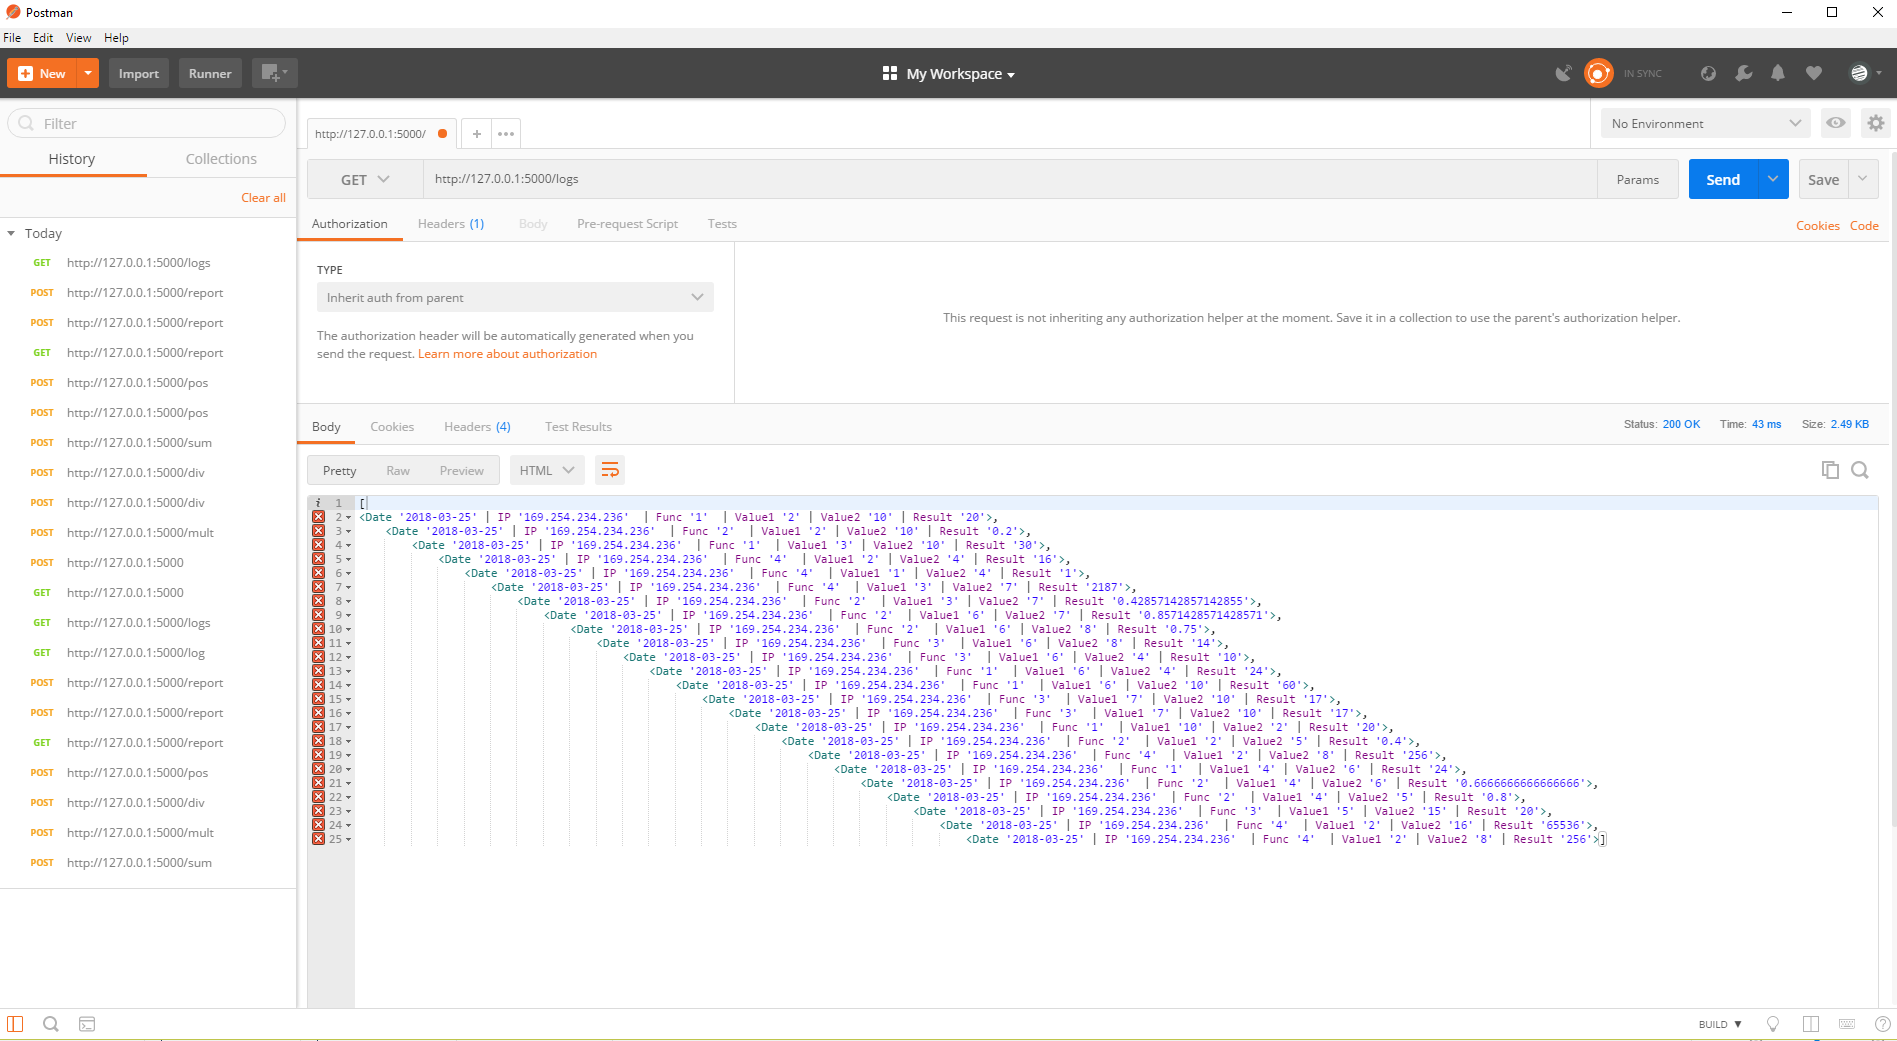
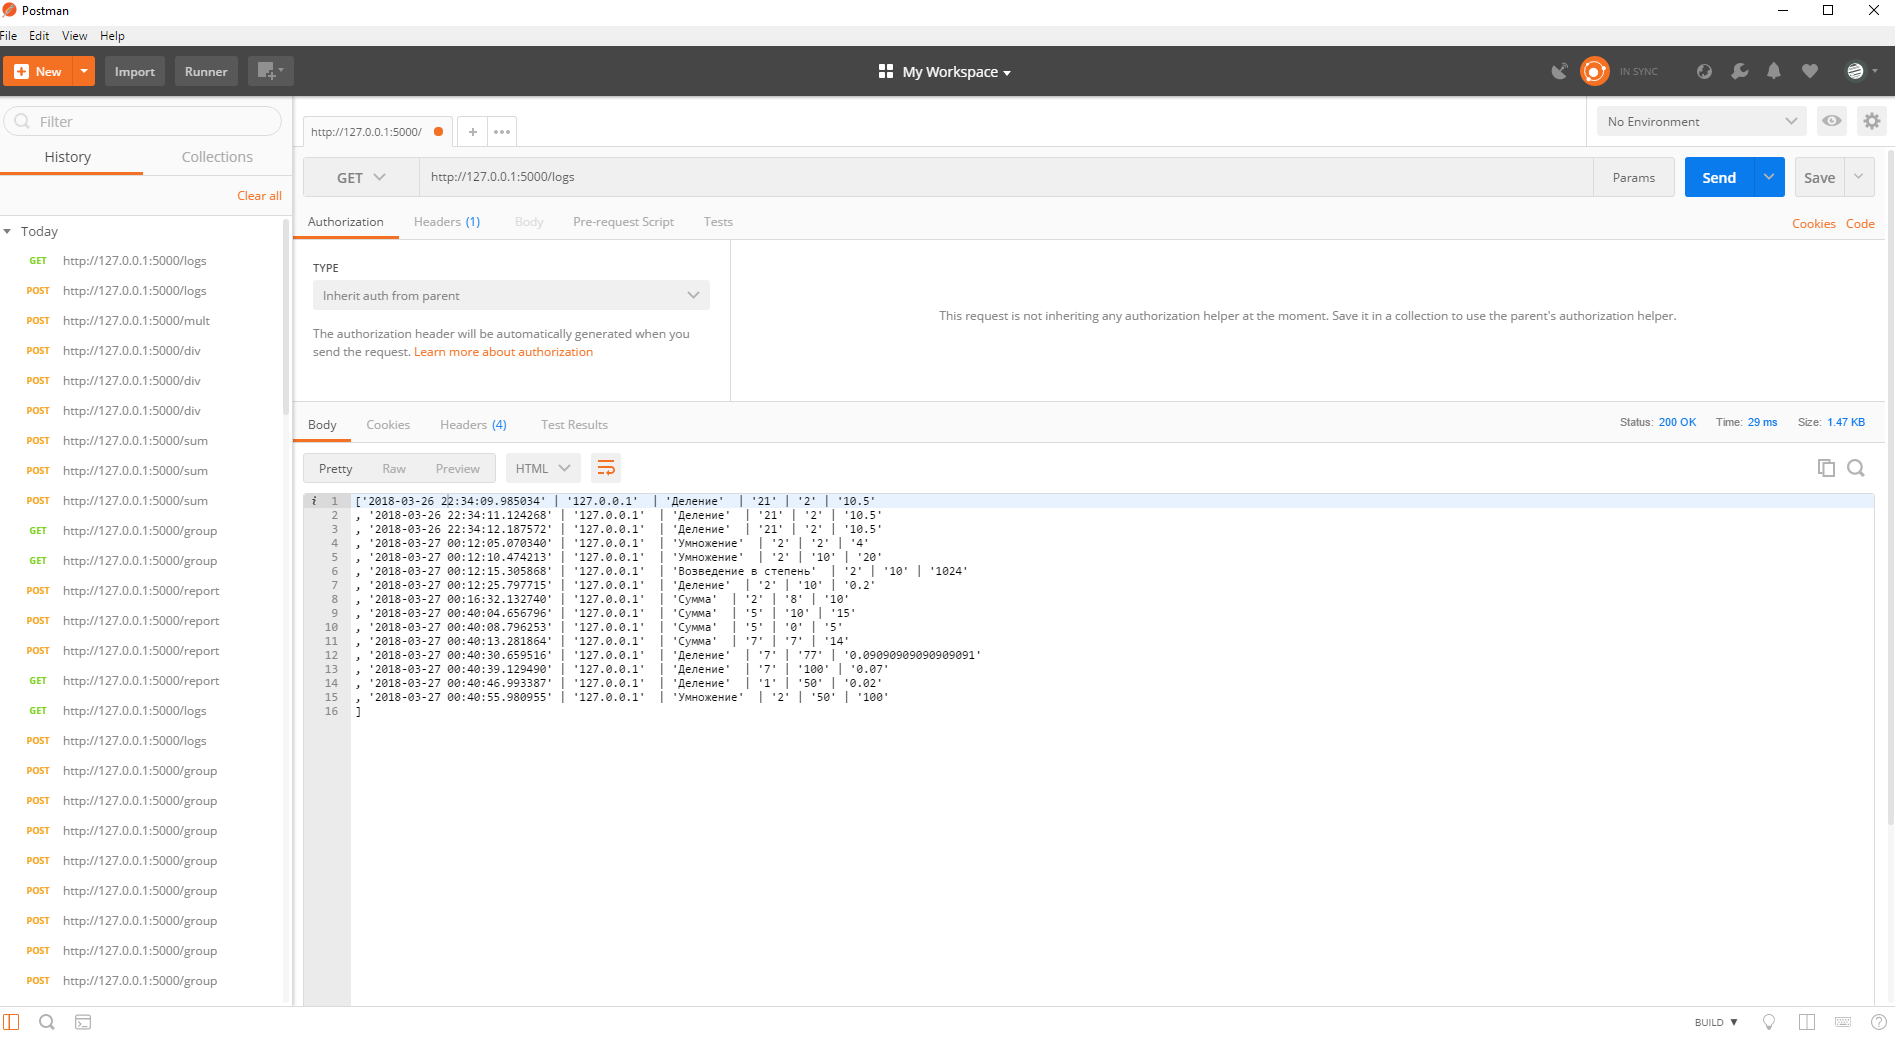
add

diff --git a/views.py b/views.py
@@ -1,3 +1,5 @@
+from sqlalchemy import func
+
 from app import app
 from flask import request, jsonify
 import socket
@@ -21,10 +23,10 @@ def mult():
 
     #work with database
     init_db()
-    d_today = datetime.now()
-    dd = d_today.date()
-    ss = socket.gethostbyname(socket.gethostname())
-    u = User(str(dd), str(ss), str(1), value1, value2, str(res))
+    dd = datetime.now()
+    # dd = d_today.date()
+    ss = request.remote_addr
+    u = User(str(dd), ss, 'Умножение', value1, value2, str(res))
     db_session.add(u)
     db_session.commit()
 
@@ -39,10 +41,10 @@ def div():
 
     #work with database
     init_db()
-    d_today = datetime.now()
-    dd = d_today.date()
-    ss = socket.gethostbyname(socket.gethostname())
-    u = User(str(dd), str(ss), str(2), value1, value2, str(res))
+    dd = datetime.now()
+    # dd = d_today.date()
+    ss = request.remote_addr
+    u = User(str(dd), ss, 'Деление', value1, value2, str(res))
     db_session.add(u)
     db_session.commit()
 
@@ -57,10 +59,10 @@ def sum():
 
     #work with database
     init_db()
-    d_today = datetime.now()
-    dd = d_today.date()
-    ss = socket.gethostbyname(socket.gethostname())
-    u = User(str(dd), str(ss), str(3), value1, value2, str(res))
+    dd = datetime.now()
+    # dd = d_today.date()
+    ss = request.remote_addr
+    u = User(str(dd), ss, 'Сумма', value1, value2, str(res))
     db_session.add(u)
     db_session.commit()
 
@@ -75,10 +77,10 @@ def pos():
 
     #work with database
     init_db()
-    d_today = datetime.now()
-    dd = d_today.date()
-    ss = socket.gethostbyname(socket.gethostname())
-    u = User(str(dd), str(ss), str(4), value1, value2, str(res))
+    dd = datetime.now()
+    # dd = d_today.date()
+    ss = request.remote_addr
+    u = User(str(dd), ss, 'Возведение в степень', value1, value2, str(res))
     db_session.add(u)
     db_session.commit()
 
@@ -88,21 +90,39 @@ def pos():
 def logs():
     return str(User.query.all())
 
+@app.route('/group', methods=['GET', 'POST'])
+def group():
+    if request.method == 'GET':
+        lst = db_session.query(User.funcn, func.count()).group_by(User.funcn).all()
+    else:
+        data_date = request.get_json()
+        dd = data_date['date']
+        lst = db_session.query(User.funcn, func.count()).filter(User.date.like("%"+str(dd)+"%")).group_by(User.funcn).all()
+        if lst == []:
+            lst = 'Запросов не было'
+
+    return jsonify({'Отчет: ': lst})
+
 
 @app.route('/report', methods=['GET', 'POST'])
 def report_day():
     if request.method == 'GET':
-        sum_v = User.query.filter(User.funcn == '3').count()
-        mult_v = User.query.filter(User.funcn == '1').count()
-        div_v = User.query.filter(User.funcn == '2').count()
-        pos_v = User.query.filter(User.funcn == '4').count()
+        sum_v = User.query.filter(User.funcn == 'Сумма').count()
+        mult_v = User.query.filter(User.funcn == 'Умножение').count()
+        div_v = User.query.filter(User.funcn == 'Деление').count()
+        pos_v = User.query.filter(User.funcn == 'Возведение в степень').count()
     else:
         data_date = request.get_json()
         dd = data_date['date']
 
-        sum_v = User.query.filter(User.date == dd, User.funcn == '3').count()
-        mult_v = User.query.filter(User.date == dd, User.funcn == '1').count()
-        div_v = User.query.filter(User.date == dd, User.funcn == '2').count()
-        pos_v = User.query.filter(User.date == dd, User.funcn == '4').count()
+        sum_v = User.query.filter(User.date.like("%"+str(dd)+"%"), User.funcn == 'Сумма').count()
+        mult_v = User.query.filter(User.date.like("%"+str(dd)+"%"), User.funcn == 'Умножение').count()
+        div_v = User.query.filter(User.date.like("%"+str(dd)+"%"), User.funcn == 'Деление').count()
+        pos_v = User.query.filter(User.date.like("%"+str(dd)+"%"), User.funcn == 'Возведение в степень').count()
 
     return jsonify({'Возведение в степень': pos_v, 'Деление': div_v, 'Умножение': mult_v, 'Сложение': sum_v})
+
+
+# @app.route("/ip", methods=["GET"])
+# def ip():
+#     return request.environ

diff --git a/models.py b/models.py
@@ -15,7 +15,8 @@ class User(object):
         self.result = result
 
     def __repr__(self):
-        return '<Date %r | IP %r  | Func %r  | Value1 %r | Value2 %r | Result %r>' % (self.date, self.ip, self.funcn, self.value1, self.value2, self.result)
+        # return '<Date %r | IP %r  | Func %r  | Value1 %r | Value2 %r | Result %r>' % (self.date, self.ip, self.funcn, self.value1, self.value2, self.result)
+        return '%r | %r  | %r  | %r | %r | %r \n' % (self.date, self.ip, self.funcn, self.value1, self.value2, self.result)
 
 
 users = Table('users', metadata,

diff --git a/README.md b/README.md
@@ -39,9 +39,14 @@ WEB API имеет 5 функций:
 >http://loc_adr/report
 - метод GET и POST, отчет работы за сутки
 
+>http://loc_adr/group
+- метод GET и POST, отчет работы за сутки
+
 Можно посмотреть записи всех логов:
 >http://loc_adr/logs 
 - метод GET
+
+
 
 ## Запуск
 
@@ -89,6 +94,19 @@ WEB API имеет 5 функций:
 Метод POST
 ![](images/report_post.png)
 ![](images/report_post2.png)
+
+Метод GET выдает на выходе результат суммарного вызова всех математических функций за всё время 
+![](images/report_get.jpg)
+
+>http://loc_adr/group
+- метод GET и POST, отчет работы за сутки, на выходе результат суммарного вызова каждой математической функции в формате JSON вида
+На вход функции подается дата в формате JSON { "date" : "<год-месяц-день>"}
+На выходе результат выполнения функции в формате JSON 
+{"Возведение в степень": <кол-во>, "Деление" : <кол-во>, "Сложение" : <кол-во>, "Умножение" : <кол-во>} 
+
+Метод POST на вход принимает дату и показывает группированный результат количества вызовов математических функций
+![](images/group.png)
+![](images/group2.png)
 
 Метод GET выдает на выходе результат суммарного вызова всех математических функций за всё время 
 ![](images/report_get.jpg)
